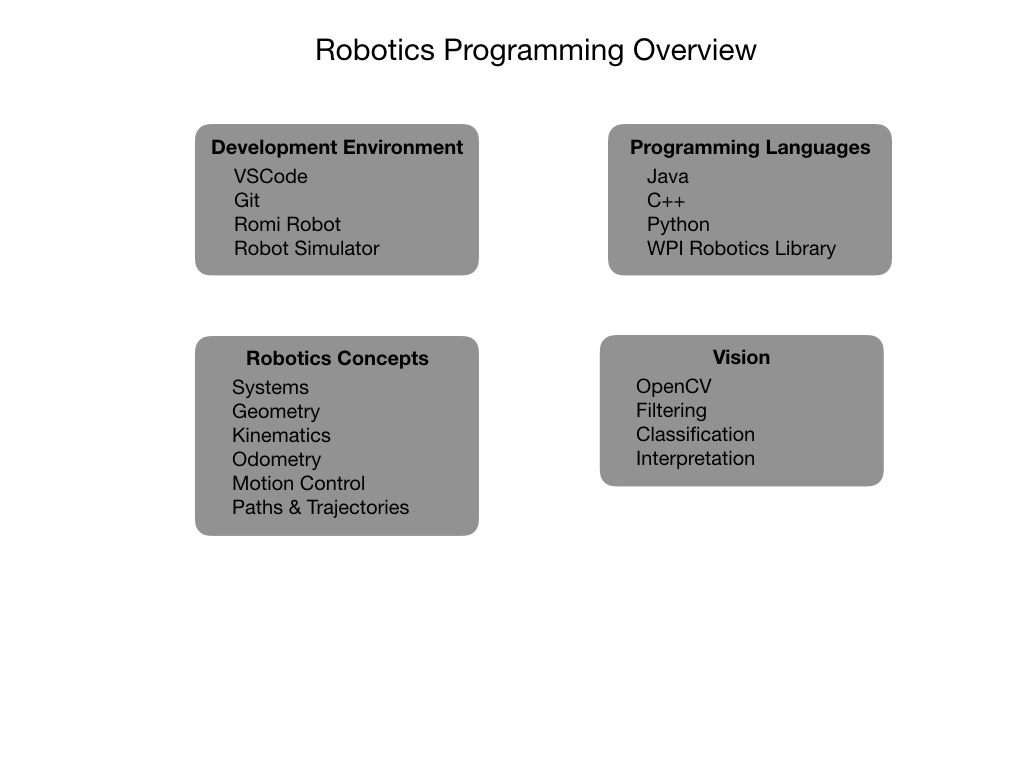
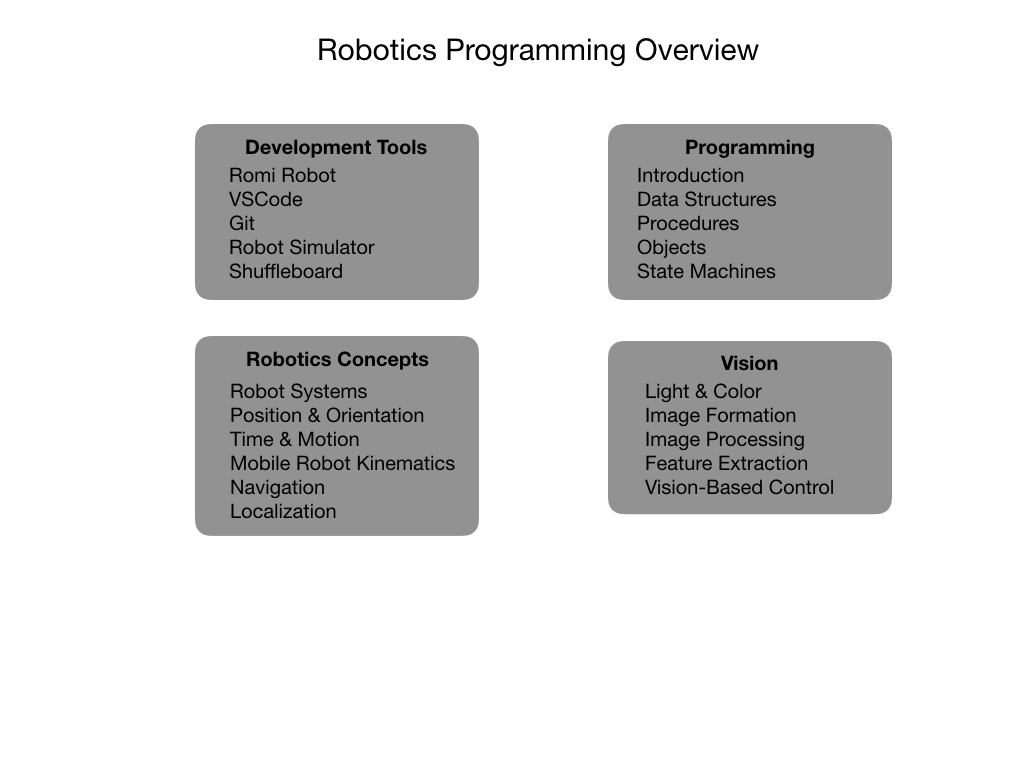
Update page navigation

diff --git a/index.md b/index.md
@@ -1,19 +1,15 @@
 # Robotics Programmer Training
 
-This site hosts training material for teams involved in the First Robotics Competition (FRC). The aim is to give student a good grounding in both robotics and programming.  The outline of the course is based on the book [Robotics, Vision and Control](https://petercorke.com/rvc/home/) by Peter Corke, although most of the training will focus on the documentation shown on the [FIRST Robotic Competition](https://docs.wpilib.org/en/latest/index.html) Website.  This will prepare you to write code for the competition robot that your mechanical and electrical engineering teams will build.
-
-The subjects that will be covered in this course of training include:
+This site hosts training material for teams involved in the First Robotics Competition (FRC). The aim is to give student a good grounding in both robotics and programming.  The outline of the course is based on the book [Robotics, Vision and Control](https://petercorke.com/rvc/home/) by Peter Corke, although most of the training will focus on the documentation shown on the [FIRST Robotic Competition](https://docs.wpilib.org/en/latest/index.html) Website.  This will prepare you to write code for the competition robot that your mechanical and electrical engineering teams will build. The subjects that will be covered in this course of training include:
 
 ![Course Overview](images/FRCConcepts/FRCConcepts.016.jpeg)
 
 So let's get started.
 
-- Development Environment 
+- Development Tools 
   - [Romi Training Robot](Tools/romi.md)
   - [VSCode](Tools/VSCode.md)
   - [Git](Tools/git.md) 
-  
-- Tools
   - [Robot Simulator](Tools/simulator.md)
   - [Shuffleboard](Tools/romiShuffleboard)
   <!-- - [BabyBot](Tools/trainingRobot.md) -->
@@ -25,12 +21,10 @@ So let's get started.
   - [State Machines](Programming/stateMachines)
 
 - Robotics Concepts
-  - [Robot Systems](Concepts/RobotSystem/index.md)
+  - [Robot Systems](Concepts/RobotSystem/intro)
   - [Position & Orientation](Concepts/geometry)
-  - [Paths & Trajectories](Concepts/trajectories)
-  <!-- - [Motion Control](Concepts/Motion/intro.md) -->
-  - [Robot Kinematics](Concepts/kinematics)
-  <!-- - [Odometry](Concepts/Odometry/intro.md) -->
+  - [Time & Motion](Concepts/timeMotion)
+  - [Mobile Robot Kinematics](Concepts/kinematics)
   - [Navigation](Concepts/navigation)
   - [Localization](Concepts/localization)
   

diff --git a/Tools/romiCommands.md b/Tools/romiCommands.md
@@ -13,7 +13,7 @@ For more details see [The Command Scheduler](https://docs.wpilib.org/en/latest/d
 ## Default Commands
 Explain default commands
 
-## Lab - Create the ArcadeDrive Command
+## ArcadeDrive Command
 Create a new command called **ArcadeDrive**.  In the VSCode file menu right click on the **commands** folder and select "Create a new class/command".  Enter the name of the command in the box.  This will give you a template for creating your new command. 
 
     import java.util.function.Supplier;
@@ -40,6 +40,7 @@ Update the execute() method:
     public void execute() {
       m_drivetrain.arcadeDrive(m_xaxisSpeedSupplier.get(),m_zaxisRotateSupplier.get());
     }
+
 ## Add the Joystick
 In the `RobotContainer` class create the Joystick object:
 
@@ -52,10 +53,8 @@ Now we'll create a function in the `RobotContainer` class that we'll use the joy
             m_drivetrain, () -> -m_controller.getRawAxis(1), () -> m_controller.getRawAxis(2));
       }
 
-## Lab - DriveDistance and TurnDegrees Commands
+## DriveDistance and TurnDegrees Commands
 Add the DriveDistance and TurnDegrees commands.
-
-Configure joystick buttons to run commands.
 
 
 ## References

diff --git a/Concepts/timeMotion.md b/Concepts/timeMotion.md
@@ -17,14 +17,19 @@ Closed loop control using encoders and PID.
 
 Closed loop diagram...
 
-## References
-[FRC Documentation - PID Control](https://docs.wpilib.org/en/latest/docs/software/commandbased/pid-subsystems-commands.html)
+## Paths and Trajectories
 
-[FRC Documentation - Controllers](https://docs.wpilib.org/en/latest/docs/software/advanced-controls/controllers/index.html)
+
+## References
+- QUT Robot Academy [Paths & Trajectories](https://robotacademy.net.au/masterclass/paths-and-trajectories/)
+
+- FRC Documentation - [PID Control](https://docs.wpilib.org/en/latest/docs/software/commandbased/pid-subsystems-commands.html)
+
+- FRC Documentation - [Controllers](https://docs.wpilib.org/en/latest/docs/software/advanced-controls/controllers/index.html)
 
 - QUT Robot Academy [Rigid Body Dynamics](https://robotacademy.net.au/masterclass/rigid-body-dynamics/)
 
 <h3><span style="float:left">
-<a href="../Kinematics/intro">Previous</a></span>
+<a href="timeMotion">Previous</a></span>
 <span style="float:right">
-<a href="../Trajectory/intro">Next</a></span></h3>
+<a href="kinematics">Next</a></span></h3>

diff --git a/Tools/romi.md b/Tools/romi.md
@@ -8,7 +8,7 @@ The <i>Romi Robot</i> is designed to be used as a teaching tool for programming 
 - [Subsystems](romiSubsystems)
 - [Commands](romiCommands)
 - [Configuring Joysticks](romiJoysticks)
-- [Advanced Commands](romiAdvancedCommands)
+- [Command Groups](romiCommandGroups)
 
 ## Advanced Programming
 - [Network Tables](romiNetworkTables)
@@ -17,10 +17,11 @@ The <i>Romi Robot</i> is designed to be used as a teaching tool for programming 
 - [Vision Programming](romiVision)
 - [PID and Line Following](romiPID)
 - [Programming Servos](romiServos)
-- [Robot Arm](romiArm)
-- [Robot Arm and Vision](romiArmVision)
 - [Filters](romiFilters)
-- [Color Sensor](colorSensor)
+<!-- - [Robot Arm](romiArm)
+- [Robot Arm and Vision](romiArmVision) -->
+
+<!-- - [Color Sensor](colorSensor) -->
 
 ## Romi Robot Software
 - [Romi RaspberryPi Software](romiPiSoftware)

diff --git a/Tools/romiCommandGroups.md b/Tools/romiCommandGroups.md
@@ -1,0 +1,17 @@
+# <a name="code"></a>Command Groups
+Simple commands can be composed into [Command Groups](https://docs.wpilib.org/en/latest/docs/software/commandbased/command-groups.html) to accomplish more-complicated tasks. Commands, including Command Groups, implement the Command interface.
+
+## Sequential Commands
+Sequential commands...
+
+## DriveTime and DriveDistance
+Expain those commands.
+
+## References
+
+- FRC Documentation - [Command Groups](https://docs.wpilib.org/en/latest/docs/software/commandbased/command-groups.html)
+
+<h3><span style="float:left">
+<a href="romiCode5">Previous</a></span>
+<span style="float:right">
+<a href="romiCode7">Next</a></span></h3>

diff --git a/Concepts/kinematics.md b/Concepts/kinematics.md
@@ -37,6 +37,6 @@ These formulars are used in the <i>DifferentialDriveKinematics</i> class of the 
 - FRC Documentation - [Kinematics and Odometry](https://docs.wpilib.org/en/latest/docs/software/kinematics-and-odometry/index.html)
 
 <h3><span style="float:left">
-<a href="../Geometry/intro">Previous</a></span>
+<a href="timeMotion">Previous</a></span>
 <span style="float:right">
-<a href="../Odometry/intro">Next</a></span></h3>
+<a href="navigation">Next</a></span></h3>

diff --git a/Concepts/geometry.md b/Concepts/geometry.md
@@ -52,6 +52,6 @@ The common way to keep track of the position and orientation of a robot is to cr
 - QUT Robot Academy [3D Geometry](https://robotacademy.net.au/masterclass/3d-geometry/)
 
 <h3><span style="float:left">
-<a href="../../index">Previous</a></span>
+<a href="RobotSystem/intro">Previous</a></span>
 <span style="float:right">
-<a href="../Kinematics/intro">Next</a></span></h3>
+<a href="timeMotion">Next</a></span></h3>

diff --git a/Concepts/RobotSystem/intro.md b/Concepts/RobotSystem/intro.md
@@ -91,6 +91,6 @@ The programming team is primarily tasked with controlling the robot.  Robot cont
 - QUT Robotics Academy [Introduction to Robotics](https://robotacademy.net.au/masterclass/introduction-to-robotics/)
 
 <h3><span style="float:left">
-<a href="index">Previous</a></span>
+<a href="index">Home</a></span>
 <span style="float:right">
-<a href="control">Next</a></span></h3>
+<a href="../geometry">Next</a></span></h3>

diff --git a/Tools/romiJoysticks.md b/Tools/romiJoysticks.md
@@ -7,6 +7,7 @@ In the `RobotContainer` class create the Joystick object:
 
     private final Joystick m_controller = new Joystick(0);
 
+Configure joystick buttons to run commands.
 
 ## Slew Rate Filter
 
